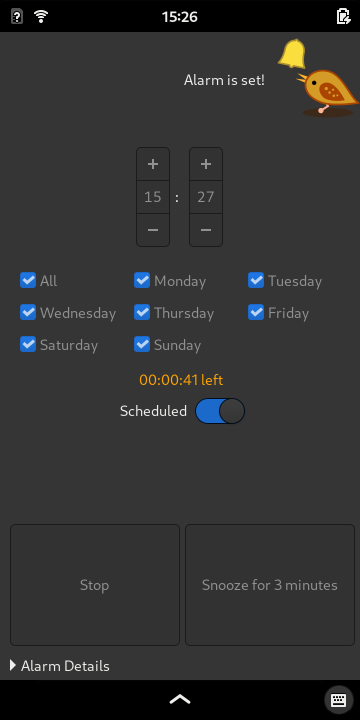
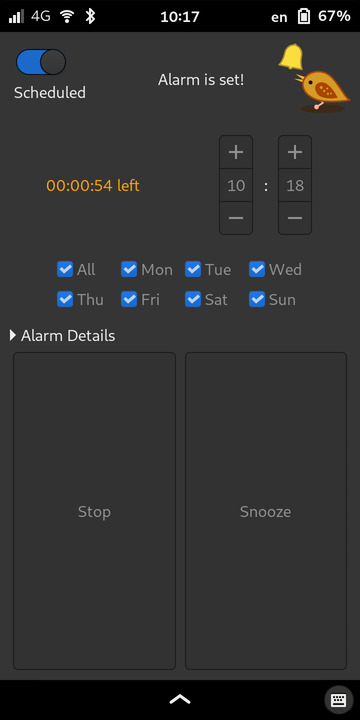
Fixup layout for PP. Update screenshots.

diff --git a/screenshots/README.md b/screenshots/README.md
@@ -6,6 +6,10 @@ Simple initial screen: set the time, enable, done!
 
 ![default](default.png)
 
+Both portrait and landscape layouts are supported.
+
+![landscape](landscape.png)
+
 ## Alarm Set and Waiting
 Alarm is scheduled, settings are locked. Countdown to the alarm is shown.
 
@@ -23,7 +27,7 @@ Alarm can be stopped or snoozed directly from the lock screen, no need to log in
 ![lockscreen](lockscreen.png)
 
 ## Customization
-Select different days, change the maximum alarm volume.
+Select different days, change the maximum alarm volume, test how it sounds.
 
 ![setup](setup.png)
 

diff --git a/README.md b/README.md
@@ -38,7 +38,7 @@ git clone https://github.com/Dejvino/birdie.git
 cd birdie
 
 # on Mobian/Debian:
-sudo apt install gcc make checkinstall python3-pip
+sudo apt install gcc make checkinstall python3-psutil python3-pip
 sudo pip install mpris-server
 sudo make install-deb
 
